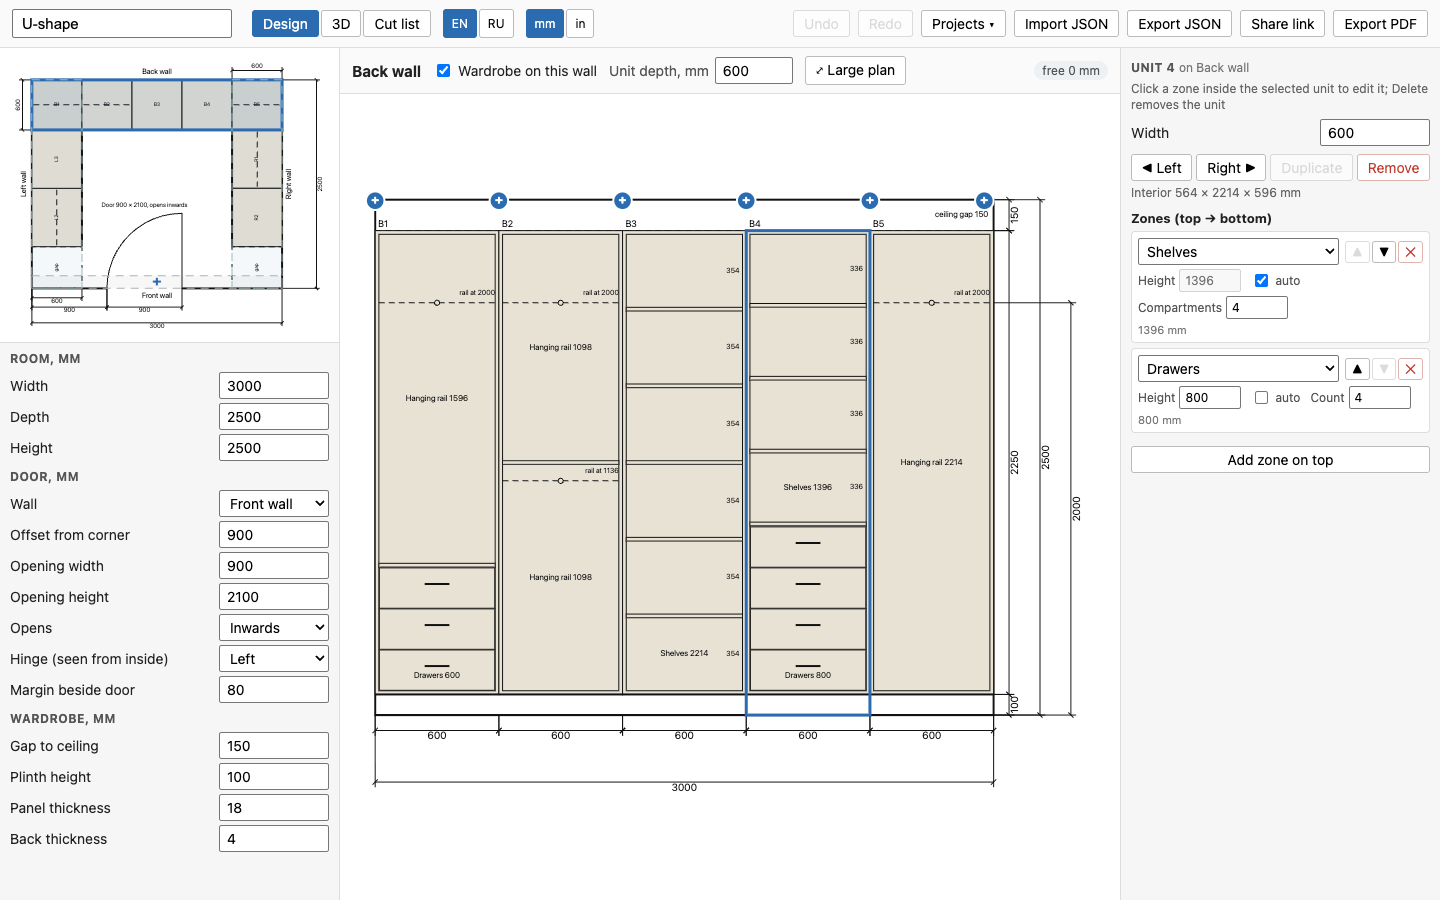
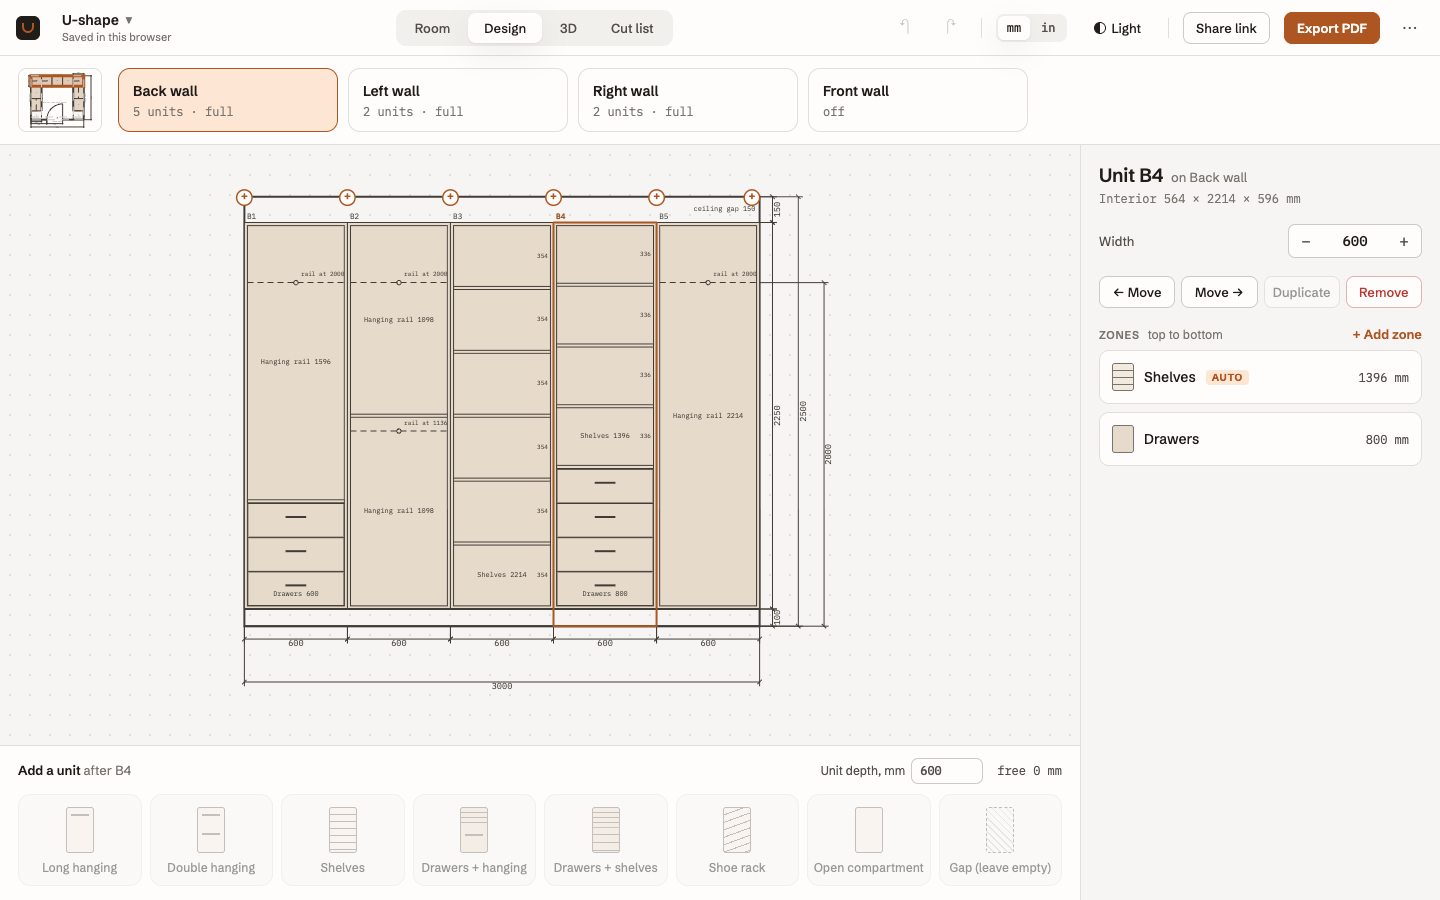
Retake screenshots and update docs for the redesign

diff --git a/ru/index.html b/ru/index.html
@@ -123,9 +123,8 @@
       <section class="sec preview" aria-label="П-образная гардеробная">
         <div class="window">
           <div class="window-bar"><span class="dots" aria-hidden="true"><i></i><i></i><i></i></span><span class="window-title">П-образная гардеробная</span></div>
-          <!-- TODO(task 11): dark screenshot -->
           <img class="shot shot-light " src="/screenshots/design.png" alt="Вкладка «Проект»: план, развёртка стены и панель свойств" width="1440" height="900" />
-            <img class="shot shot-dark " src="/screenshots/design.png" alt="Вкладка «Проект»: план, развёртка стены и панель свойств" width="1440" height="900" aria-hidden="true" />
+            <img class="shot shot-dark " src="/screenshots/design-dark.png" alt="Вкладка «Проект»: план, развёртка стены и панель свойств" width="1440" height="900" aria-hidden="true" />
         </div>
       </section>
 

diff --git a/index.html b/index.html
@@ -121,9 +121,8 @@
       <section class="sec preview" aria-label="U-shape walk-in">
         <div class="window">
           <div class="window-bar"><span class="dots" aria-hidden="true"><i></i><i></i><i></i></span><span class="window-title">U-shape walk-in</span></div>
-          <!-- TODO(task 11): dark screenshot -->
           <img class="shot shot-light " src="/screenshots/design.png" alt="Walk-in Planner design tab: plan, wall elevation and inspector" width="1440" height="900" />
-            <img class="shot shot-dark " src="/screenshots/design.png" alt="Walk-in Planner design tab: plan, wall elevation and inspector" width="1440" height="900" aria-hidden="true" />
+            <img class="shot shot-dark " src="/screenshots/design-dark.png" alt="Walk-in Planner design tab: plan, wall elevation and inspector" width="1440" height="900" aria-hidden="true" />
         </div>
       </section>
 

diff --git a/README.md b/README.md
@@ -2,24 +2,30 @@
 
 **<https://walkinplanner.com>** — free, runs in the browser, no account.
 
-![Design tab: plan, wall elevation and inspector](public/screenshots/design.png)
+![Design mode: wall elevation, preset tray and inspector](public/screenshots/design.png)
 
 Plan a walk-in wardrobe: set the room and the door, pick which walls carry wardrobe, and fill
 each wall with columns of hanging rails, shelves, drawers, shoe racks and open compartments — or
 leave gaps. Out comes a 3D preview, a dimensioned plan with one elevation per wall, a cut list
 every panel of which is tagged to the drawings, and a PDF you can hand to a panel shop.
-Everything runs locally: projects live in your browser's storage, and a share link carries the
+It follows your system's light or dark theme (a button in the top bar forces either), and
+switches to a phone layout with a bottom sheet on narrow screens. Everything runs locally: projects live in your browser's storage, and a share link carries the
 whole design in the URL rather than on a server.
 
 ![3D preview of a walk-in wardrobe](public/screenshots/3d.png)
 
-![Walk-in Planner on a phone](public/screenshots/mobile.png)
+Dark theme and phone layout:
+
+![Design mode, dark theme](public/screenshots/design-dark.png)
+
+<img src="public/screenshots/mobile.png" alt="Walk-in Planner on a phone" width="280">
 
 ## What it does
 
 - Rectangular room, open (doorless) units along any of the four walls, one door opening.
 - Columns of stacked zones: hanging, double hanging, shelves, drawers, shoe rack, open
   compartment — or an empty gap, optionally carrying a wall-mounted rail.
+- Four modes: **Room**, **Design**, **3D**, **Cut list**; light and dark themes.
 - 3D preview, dimensioned plan + per-wall elevations, cut list, PDF export.
 - Millimetres or inches (display only — the model is always mm), English or Russian.
 - Several projects side by side, JSON import/export, share links, undo/redo.
@@ -39,9 +45,10 @@ whole design in the URL rather than on a server.
    click a unit). Dismiss it once and it stays gone. **Projects ▾** in the top bar lists your
    projects and creates a new one blank or from a template (One wall, L-shape, U-shape);
    `/app/?template=uShape` opens straight into one.
-2. **Design** tab: click a wall in the plan (top-left), then click a **+** in the wall elevation
-   to insert a unit preset (long hanging, double hanging, shelves, drawers + hanging,
-   drawers + shelves, shoe rack, open compartment, or an empty gap) at that position.
+2. **Design** mode: pick a wall in the wall tabs (or the mini-plan beside them), then click a **+**
+   in the wall elevation to choose the insert position; the preset tray below the drawing adds a
+   unit there (long hanging, double hanging, shelves, drawers + hanging, drawers + shelves, shoe
+   rack, open compartment, or an empty gap).
 3. Click a unit to edit its width and zones (bottom→top stack) in the inspector; click a zone
    *inside the already-selected unit* to drill down to that zone. A shelves zone is sized in
    **compartments**, not boards: *n* compartments are split by *n* − 1 shelves, so `1` is a
@@ -62,11 +69,11 @@ whole design in the URL rather than on a server.
 6. A hanging zone's rail runs **along the wall** by default; switch its *Direction* to
    **front to back (corner)** for a unit boxed into a corner, where a wall-parallel rail cannot
    be reached. The plan shows every rail as a dashed line, so the two read apart.
-7. Room / door / wardrobe settings (gap to ceiling, plinth, panel thickness) are in the left
-   panel. The **mm | in** toggle beside the language toggle switches every displayed length,
+7. Room / door / wardrobe settings (gap to ceiling, plinth, panel thickness) are in **Room** mode
+   (on a phone: the projects sheet). The **mm | in** toggle beside the language toggle switches every displayed length,
    including drawings, cut list and PDF; files stay in millimetres.
-8. **3D** tab to orbit around the room; **Cut list** tab for the parts; **Export PDF** for the
-   scheme (the 3D picture is rendered off-screen if you never opened the 3D tab).
+8. **3D** mode to orbit around the room; **Cut list** mode for the parts; **Export PDF** for the
+   scheme (the 3D picture is rendered off-screen if you never opened 3D mode).
 9. **Share link** copies a URL with the whole project packed into the fragment — nothing is
    stored on a server. **Export JSON** / **Import JSON** move a project between browsers; an
    imported file always opens as a new project, so whatever you had open stays as it was.
@@ -80,7 +87,7 @@ The project autosaves to localStorage. The PDF embeds PT Sans (SIL OFL) so Russi
     pnpm test         # vitest
     pnpm typecheck
     pnpm build        # typecheck + vite build -> dist/
-    pnpm screenshots  # needs dist/: rewrites public/screenshots/*.png and public/og.png
+    pnpm screenshots  # needs dist/: rewrites public/screenshots/*.png (light and -dark) and public/og.png
 
 `pnpm screenshots` drives the system Chrome headless over the DevTools protocol (no Playwright,
 no extra dependency); set `CHROME` if Chrome is not at the default macOS path.
@@ -88,7 +95,7 @@ no extra dependency); set `CHROME` if Chrome is not at the default macOS path.
 ## Layout
 
 - `index.html`, `ru/`, `guides/`, `site/` static marketing pages (landing in two languages, four
-  guides) with their shared CSS and the page list a test checks
+  guides) with their shared CSS (`site/tokens.css` holds the design tokens the app shares) and the page list a test checks
 - `app/index.html` the planner itself, served at `/app/`
 - `public/` static assets copied verbatim: `CNAME`, favicon, `robots.txt`, `sitemap.xml`,
   `llms.txt`, `og.png`, `screenshots/`
@@ -100,7 +107,7 @@ no extra dependency); set `CHROME` if Chrome is not at the default macOS path.
 - `src/units.ts` mm/inch formatting and parsing (display only)
 - `src/store` zustand store (history, selection), persistence, `projects.ts` (several projects in
   localStorage), `share.ts` (compressed share links)
-- `src/ui` React components (Design tab editors, 3D viewport under `src/ui/three`,
+- `src/ui` React components (top bar and modes, Design editors, phone shell, 3D viewport under `src/ui/three`,
   `three/offscreenSnapshot.ts` for the PDF picture without a 3D visit)
 - `scripts/screenshots.mjs` the screenshot/og-image generator
 

diff --git a/CLAUDE.md b/CLAUDE.md
@@ -16,6 +16,7 @@ pnpm test src/geometry/layout.test.ts     # one file
 pnpm test -t "rail"                       # by test name (no `--`)
 pnpm typecheck                            # tsc --noEmit
 pnpm build                                # typecheck + vite build -> dist/
+pnpm screenshots                          # after pnpm build: public/screenshots/*.png (+ -dark) and public/og.png via system Chrome
 pnpm embed-font                           # regenerate src/pdf/fonts/ptsans.ts (only if the TTF changes)
 ```
 
@@ -41,7 +42,11 @@ Project (model/types) ──validate──> errors
           └─ ui/three       Part[] -> R3F meshes
 ```
 
-- `store/store.ts` (zustand): holds `project`, `errors`, `lastValid`, undo/redo history (`past`/`future`, limit 100), and `ui` (tab, selection, lang). Every edit goes through `commit()` which re-validates and keeps `lastValid` as the last error-free project. 3D, cut list and PDF render from `lastValid` (with a stale banner); Design-tab drawings render from the current project when it is still geometrically drawable (`ui/drawable.ts`). No-op edits must not create history entries (structural sharing is checked by identity).
+UI (`src/ui`, React on the store): `TopBar` (project menu, mode switcher Room · Design · 3D · Cut list, undo/units/theme, share, PDF). `DesignTab` = `WallTabs` + canvas (`PlanEditor`/`ElevationEditor`) + `PresetTray` + `ErrorBanner` + `Inspector`; `RoomMode` is the room/door/wardrobe form; `Viewport3D` has floating chrome (view presets, toggles, mini-plan). At ≤600px `App` swaps in `MobileShell` (header, `WallChips`, elevation + mini-plan, `BottomSheet`, `MobileNav`). Breakpoints: 600 phone, 820 tablet (`styles.css`; `useMediaQuery` for JS).
+
+- `store/store.ts` (zustand): holds `project`, `errors`, `lastValid`, undo/redo history (`past`/`future`, limit 100), and `ui` (tab, selection, insert slot, lang, units, theme, sheet state). Every edit goes through `commit()` which re-validates and keeps `lastValid` as the last error-free project. 3D, cut list and PDF render from `lastValid` (with a stale banner); Design-tab drawings render from the current project when it is still geometrically drawable (`ui/drawable.ts`). No-op edits must not create history entries (structural sharing is checked by identity).
+- Insert slot: `ui.insertAt` (a `+` marker in the elevation; reconciled in `commit()` via `slotFor`) says where the next unit goes; `PresetTray` adds a preset there. It replaced the old spawn menu.
+- Theme: `site/tokens.css` is shared by the landing pages and the app. `html[data-theme=light|dark]` forces a theme, otherwise `prefers-color-scheme` decides. `ui.theme` (`auto|light|dark`, persisted as `wardrobe-planner:theme`) goes through `applyTheme` (`ui/theme.ts`, also rewrites the `theme-color` metas); every HTML head carries a tiny inline script that sets `data-theme` before paint. Colours live in CSS variables only: no hex outside `src/ui/three/colors.ts` (the three.js hex table derived from the tokens) and the favicon.
 - `store/persist.ts`: JSON file format with `FILE_VERSION` and shape validation; older versions are migrated on load. Optional fields (`rod`, `rodDir`, `rail`) are absent by default so old files keep the behaviour they were saved with. Autosaves to localStorage.
 - `i18n`: every user-visible string is a `Msg` (`{key, params}`) translated with `t`/`tm`/`tmDeep`; `en.ts` defines the key set and a test enforces `ru.ts` parity (same keys, same placeholders) plus coverage of every `prefix × union` key built by casting (walls, zone types, presets, part names…). Add both languages together.
 
@@ -59,6 +64,7 @@ Project (model/types) ──validate──> errors
 
 ## Working notes
 
+- `pnpm screenshots` forces a theme via localStorage (`wardrobe-planner:theme`, and `wardrobe-planner:hint-dismissed` = `1` to hide the first-run hint) and writes `{design,3d,cutlist,mobile}{,-dark}.png` plus `public/og.png`; its OG band uses the dark token colours as hex.
 - `.superpowers/sdd/<plan>/` is a gitignored scratch area from the original SDD run (briefs, reports, `progress.md` with the known-open-items list, and `snap-package` for tree-snapshot review diffs). `global-constraints.md` there predates git and is stale on that point; the conventions above supersede it.
 - `src/pdf/fonts/ptsans.ts` is generated (base64 PT Sans, SIL OFL); never hand-edit.
 - `pnpm-workspace.yaml` pins `@types/react-reconciler` to a React-18-compatible version and allowlists the `core-js` postinstall; keep both when touching deps.
